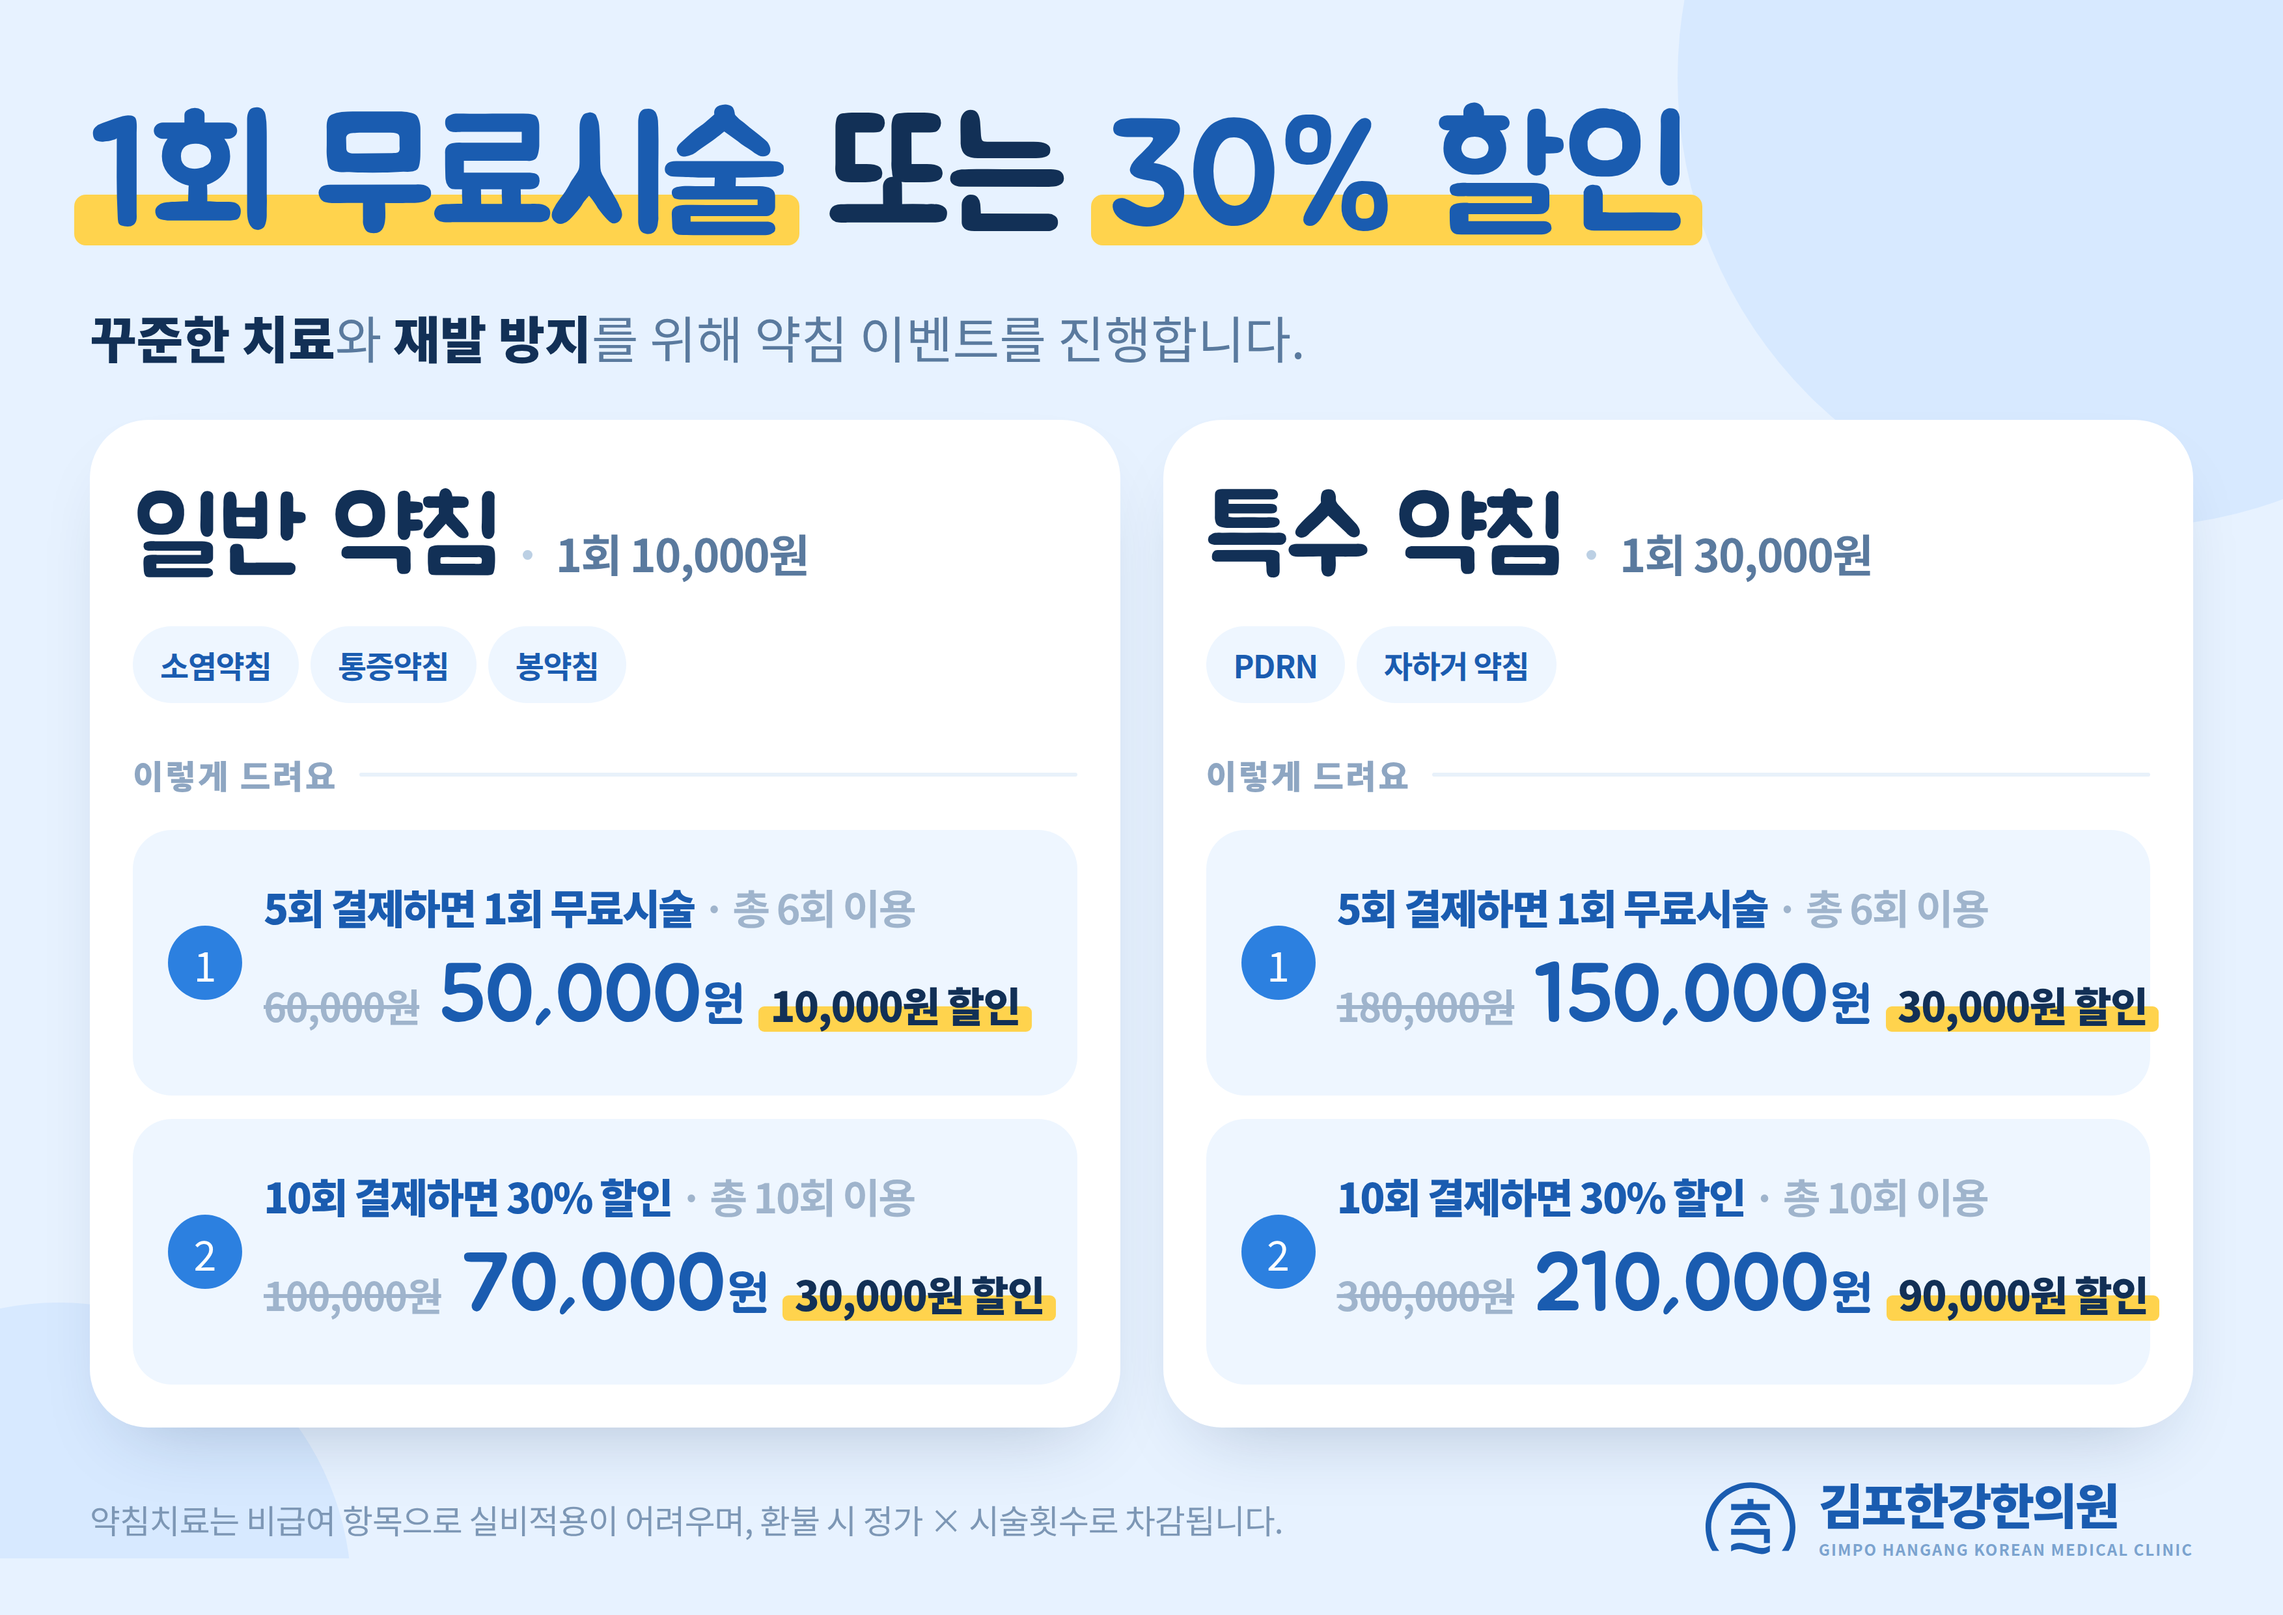
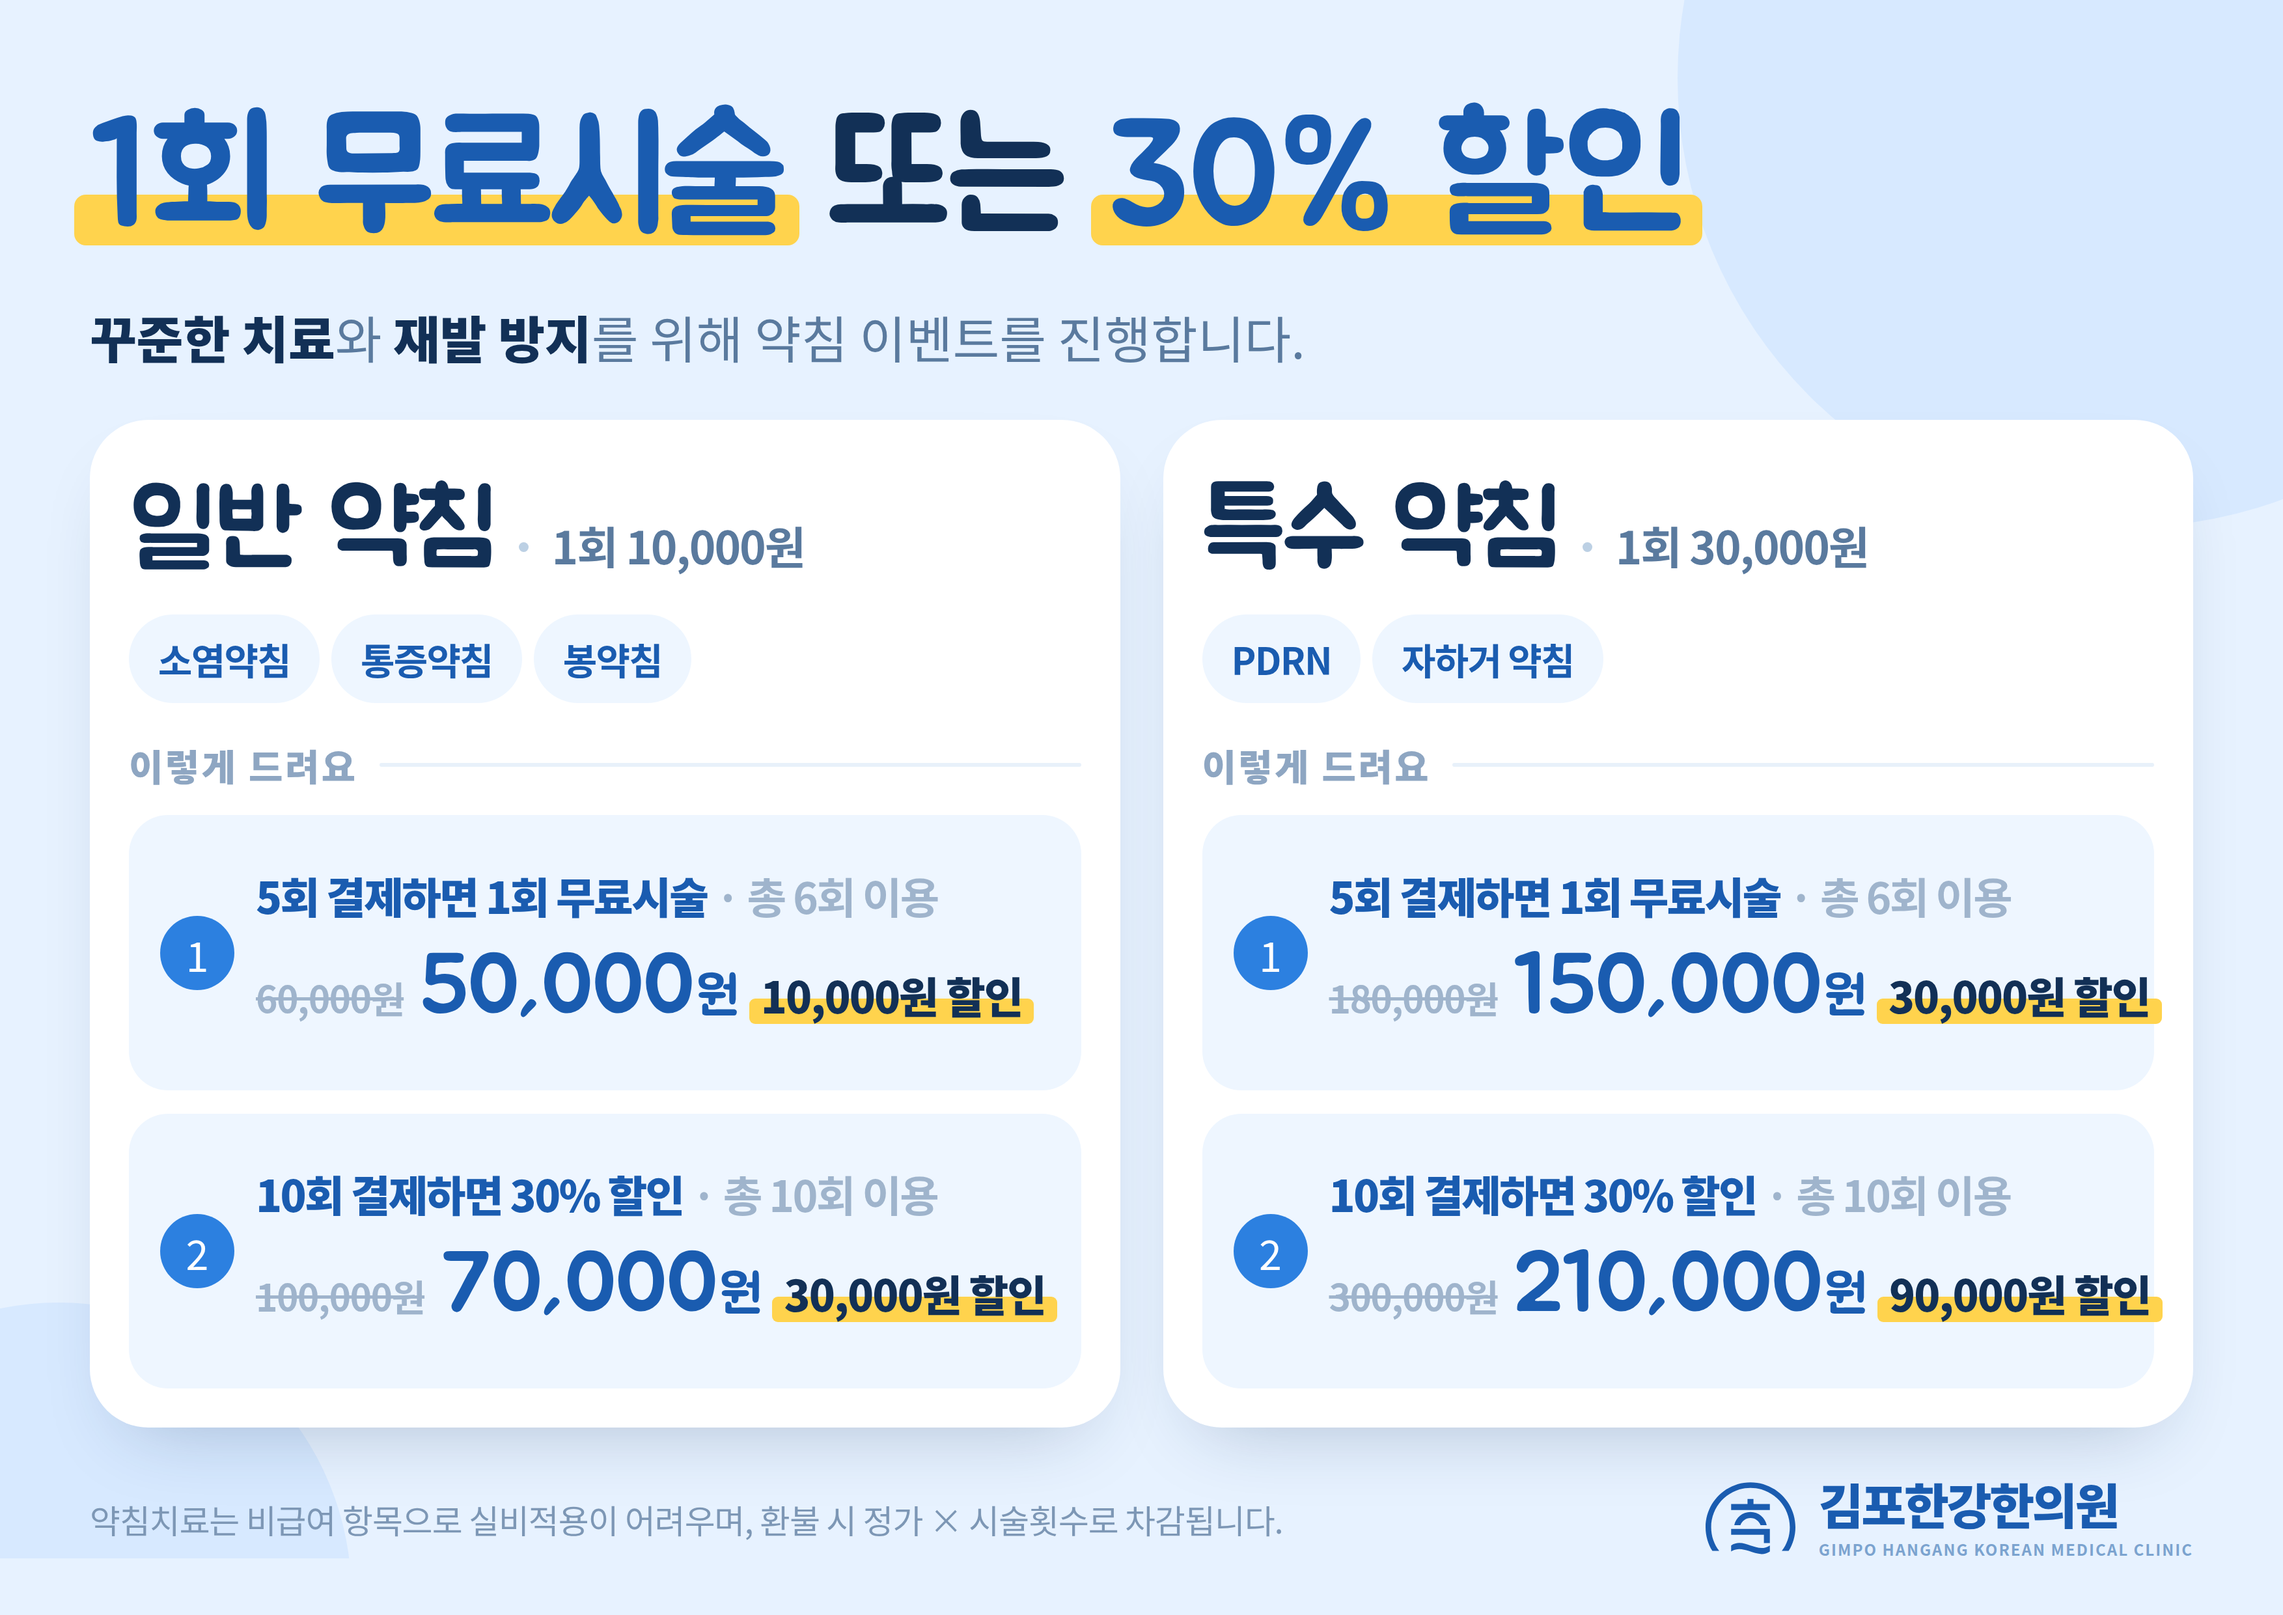
시술명 아래 글씨를 키우고 위아래 간격을 좁힘
- 약침 종류 태그 16→19, 「이렇게 드려요」 17→19
- 혜택 조건 21→22, 할인가 42→44, 할인액 21→22
- 카드 안쪽 여백과 요소 사이 간격을 전반적으로 줄임

남는 세로 공간이 빈 틈으로 남지 않도록 혜택 칸에 flex: 1 을 줘
칸이 늘어나 채우게 했다. 금액 줄 폭이 빠듯해 좌우 여백을 줄여 자리를 벌었다.

Claude-Session: https://claude.ai/code/session_017DGhBSAmjkVB1vRVfDZGb9

diff --git a/tools/poster/yakchim-event.html b/tools/poster/yakchim-event.html
@@ -84,7 +84,7 @@
   }
   .card {
     background: var(--card); border-radius: 30px;
-    padding: 28px 22px 22px;
+    padding: 24px 20px 20px;
     box-shadow: 0 18px 40px -20px rgba(18, 48, 86, 0.28);
     display: flex; flex-direction: column;
   }
@@ -95,42 +95,42 @@
   }
   .fee::before { content: ""; display: inline-block; width: 5px; height: 5px; border-radius: 50%;
     background: #bcd0e4; vertical-align: 0.28em; margin-right: 12px; }
-  .for { margin-top: 10px; display: flex; gap: 6px; }
+  .for { margin-top: 8px; display: flex; gap: 6px; }
   .for span {
     background: #eef6ff; color: var(--blue-deep); border-radius: 999px;
-    padding: 8px 14px; font-size: 16px; font-weight: 700; letter-spacing: -0.03em;
+    padding: 9px 15px; font-size: 19px; font-weight: 700; letter-spacing: -0.03em;
   }
 
   .perklabel {
-    margin-top: auto; padding-top: 20px;
+    margin-top: 18px;
     display: flex; align-items: center; gap: 11px;
-    font-size: 17px; font-weight: 900; color: var(--faint); letter-spacing: 0.06em;
+    font-size: 19px; font-weight: 900; color: var(--faint); letter-spacing: 0.06em;
   }
   .perklabel::after { content: ""; flex: 1; height: 2px; border-radius: 2px; background: #e8f1fa; }
-  .perks { margin-top: 16px; }
+  .perks { margin-top: 12px; flex: 1; display: flex; flex-direction: column; gap: 12px; }
   .perk {
     display: flex; align-items: center; gap: 11px;
     background: #eef6ff; border-radius: 20px;
-    padding: 24px 18px;
+    flex: 1; padding: 14px 16px;
     color: var(--ink);
   }
-  .perk + .perk { margin-top: 12px; }
+
   /* 윗줄은 조건, 아랫줄이 눈에 걸려야 하는 금액이다 */
-  .perk .cond { font-size: 21px; font-weight: 700; color: #5a7a9e; letter-spacing: -0.04em; }
+  .perk .cond { font-size: 22px; font-weight: 700; color: #5a7a9e; letter-spacing: -0.04em; }
   .perk .cond b { color: var(--blue-deep); font-weight: 900; }
   .perk .cond em { font-style: normal; color: #9fb4cc; }
-  .perk .line { display: flex; align-items: baseline; gap: 10px; margin-top: 5px; }
+  .perk .line { display: flex; align-items: baseline; gap: 8px; margin-top: 4px; }
   .perk .was {
-    font-size: 20px; font-weight: 700; color: #9fb4cc; letter-spacing: -0.03em;
+    font-size: 19px; font-weight: 700; color: #9fb4cc; letter-spacing: -0.03em;
     text-decoration: line-through;
   }
-  .perk .now { font-size: 42px; color: var(--blue-deep); letter-spacing: -0.02em; }
-  .perk .now u { text-decoration: none; font-size: 26px; padding-left: 1px; }
+  .perk .now { font-size: 44px; color: var(--blue-deep); letter-spacing: -0.02em; }
+  .perk .now u { text-decoration: none; font-size: 27px; padding-left: 1px; }
   /* 제목의 형광펜 자국과 같은 처리. z-index 1 로 층을 만들어야
      ::before 가 칸 배경 뒤로 숨지 않는다 */
   .perk .save {
     position: relative; z-index: 1;
-    font-size: 21px; font-weight: 900; color: var(--ink); letter-spacing: -0.03em;
+    font-size: 22px; font-weight: 900; color: var(--ink); letter-spacing: -0.03em;
     padding: 0 4px;
   }
   .perk .save::before {

diff --git a/tools/poster/README.md b/tools/poster/README.md
@@ -37,6 +37,9 @@
 카드 아래 태그는 **효능이 아니라 약침 종류**다(`.for` 의 `<span>`).
 일반 약침 — 소염약침·통증약침·봉약침, 특수 약침 — PDRN·자하거 약침.
 
+카드 안에 남는 세로 공간은 **혜택 칸(`.perk`)이 늘어나 가져간다**(`flex: 1`).
+글자 사이 여백을 줄여도 시술명과 혜택 사이가 벌어지지 않는 이유다.
+
 ## 혜택 칸 금액 줄은 폭이 빠듯하다
 
 `취소선 금액 + 할인가 + 할인액` 이 한 줄에 들어가야 한다.
